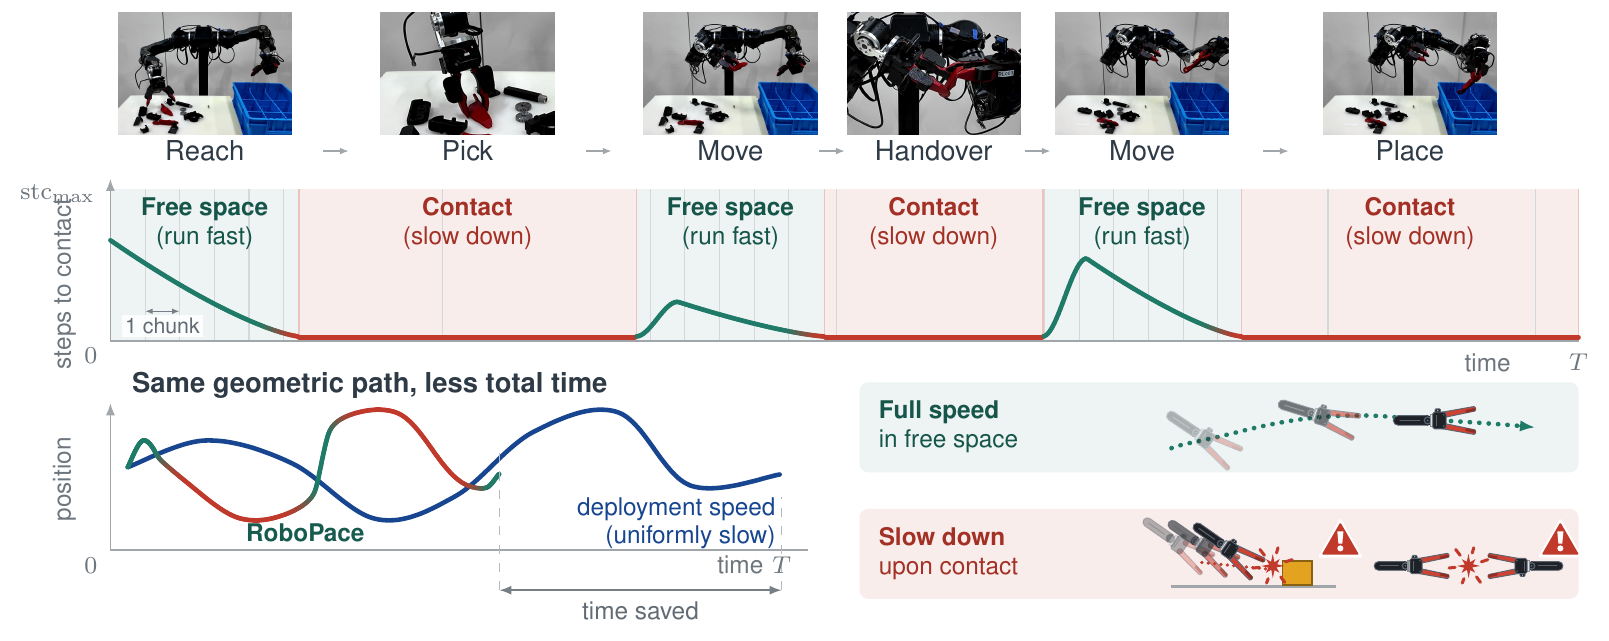
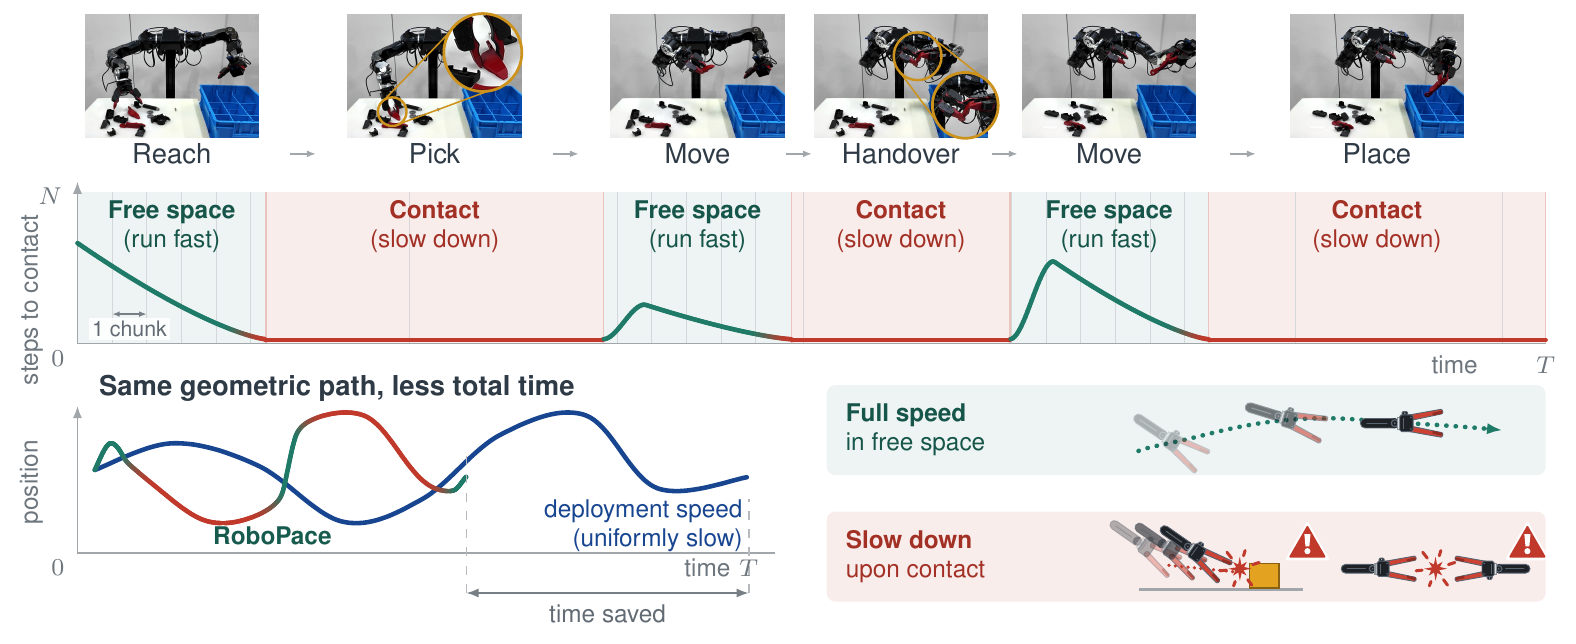
update images

diff --git a/index.html b/index.html
@@ -43,7 +43,7 @@
   <section class="section">
     <div class="container">
       <figure class="teaser">
-        <img src="static/images/fig_teaser.png?v=20260917162000" alt="Overview of RoboPace: fast in free space, slow near contact">
+        <img src="static/images/fig_teaser.png?v=20260918140000" alt="Overview of RoboPace: fast in free space, slow near contact">
         <figcaption>RoboPace preserves the policy's geometric path while adapting its timing to predicted contact. It completes the same path faster than uniformly slow execution while maintaining comparable reliability.</figcaption>
       </figure>
     </div>
@@ -92,7 +92,7 @@
         <figure><video controls preload="metadata" src="videos/parts_handover_robopace.mp4?v=20260914202523"></video><figcaption>Part: pick a part, hand it over in the air, place it into a cell (qualitative run, Fig. 4 of the paper).</figcaption></figure>
       </div>
       <figure class="teaser-width">
-        <img src="static/images/fig_sps.png?v=20260917162000" alt="The handover run with all gate signals over time">
+        <img src="static/images/fig_sps.png?v=20260918140000" alt="The handover run with all gate signals over time">
         <figcaption>The Part run over time: commanded steps and the speed mode (teal = full speed, red = slowed by a gate), hand speed with the contact speed limit, predicted steps to contact, hand&ndash;table and hand&ndash;hand distances, all from the same recording. The speed mode reflects the per-waypoint countdown test, so it can turn red while the plotted countdown is still slightly above the threshold.</figcaption>
       </figure>
     </div>
